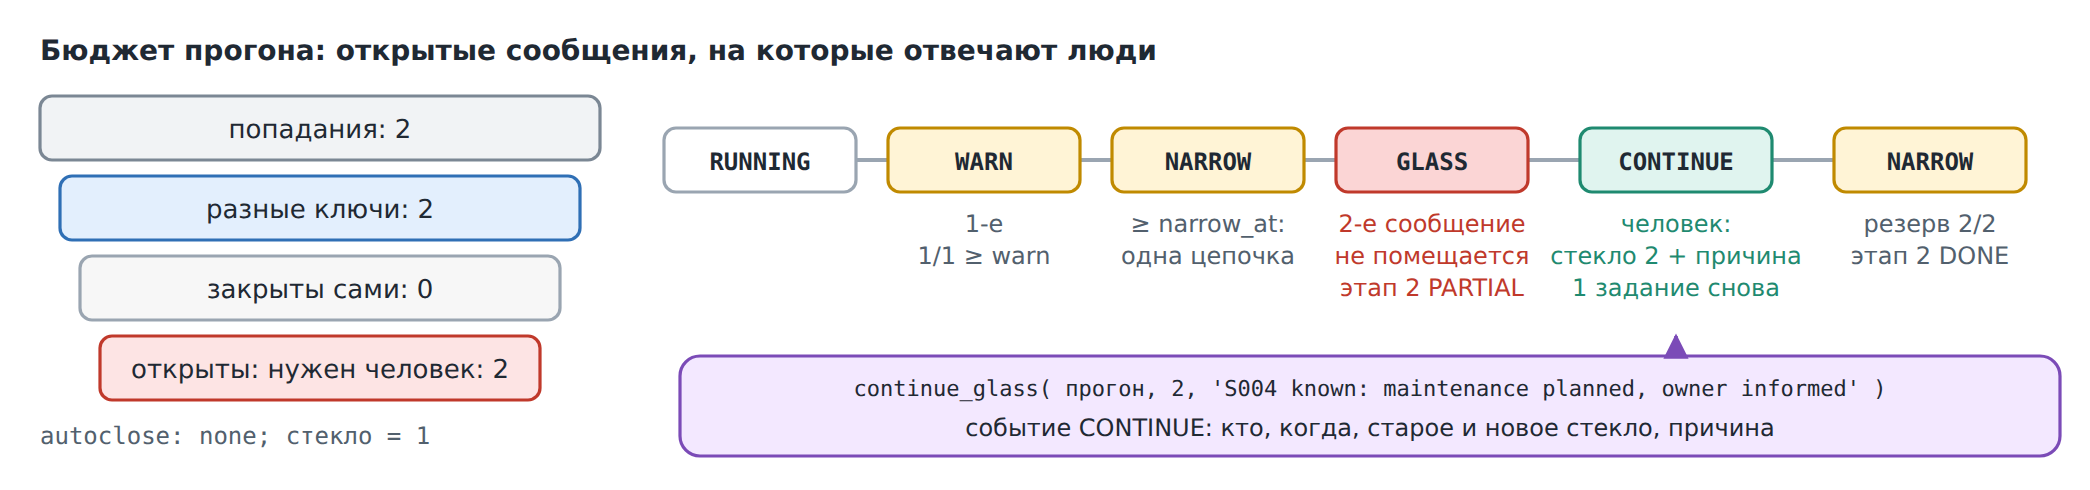
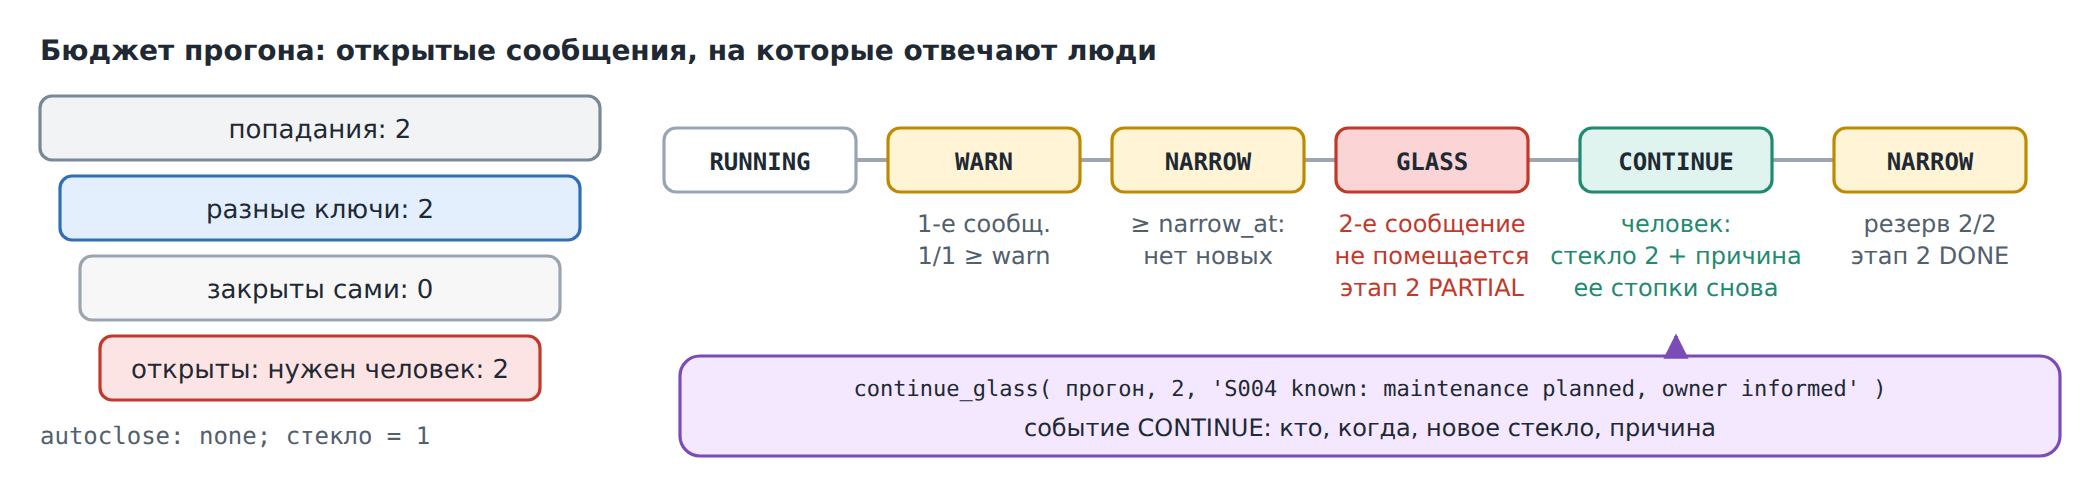
Chapter 17 after review: lock shown and checked, job order, NARROW, release_pile, the settings report
Codex, the critic and osg-research:
- the state classrun prints the date's lock; G1 checks HELD, G2 RELEASED
- a pile with no alert that runs after the glass stops at it too: G2
  expects one job per stopped pile, and the chapter says so; G2 checks the
  STALE-PLAN reason it quotes
- NARROW stops new submissions only; reservation is per pile, one place per
  new ship and rule; ZL3_WATCH_CONF is a report; release_pile( ) then
  resume( ); the doctor is called by someone without a schedule; no claim
  about a console in progress
- diagram: CONTINUE carries the new glass; its piles again; RU labels

Claude-Session: https://claude.ai/code/session_018Djywwje7kdEq6CEr4LG73

diff --git a/book/ru/17-governor.md b/book/ru/17-governor.md
@@ -31,13 +31,15 @@ settings:
   tunable: [budget.glass]
 ```
 
-- `resilience` — то, что нужно регулятору внизу: упавшая стопка отправляется
-  снова, а задание-доктор подбирает то, что оставило умершее задание (глава 16
-  об этом упоминала).
+- `resilience` — основа, на которой стоит регулятор: упавшую стопку можно
+  отправить снова, а `doctor( )` подбирает то, что оставило упавшее задание. С
+  расписанием доктор идет заданием; у набора watch расписания нет, поэтому
+  здесь его вызвал бы человек.
 - `glass` («стекло») — бюджет, число открытых сообщений, которое может быть у
   прогона. Имя от «разбить стекло»: дальше должен действовать человек.
 - `warn` и `narrow_at` — доли стекла. На `warn` прогон один раз отмечает это,
-  на `narrow_at` сужается до одной цепочки заданий за раз.
+  на `narrow_at` сужается: новое задание не отправляется, пока идет другая
+  стопка прогона. Уже отправленные задания выполняются.
 - `per_pile: 0` выключает отдельный предел на стопку.
 - `funnel` решает, что считать. Сообщение считается один раз на правило,
   прогон и корабль (`group_by: object`): два попадания одного правила по
@@ -51,11 +53,11 @@ settings:
 
 Собирается так же, как ночной набор (глава 16), через
 `tools/dsl-l3.mjs build`. Компилятор пишет исполнитель `ZCL_OSD_FLEET_WATCH`,
-его отчет для заданий `ZOSD_FLEET_WATCH`, порты `ZCL_L3_WATCH_*` и классы
-настроек `ZCL_L3_WATCH_CONF` и `ZL3_WATCH_CONF`. Бюджет лежит в общей таблице
+его отчет для заданий `ZOSD_FLEET_WATCH`, порты `ZCL_L3_WATCH_*` и класс
+настроек `ZCL_L3_WATCH_CONF` с его отчетом `ZL3_WATCH_CONF`. Бюджет лежит в общей таблице
 open-steamgate `ZOSD_L3_BUDGET`, история прогона — в `ZOSD_L3_EVENT`.
 
-![Бюджет прогона: два попадания, два разных ключа, ни одного закрытого самим, два открытых; состояния бюджета от RUNNING до GLASS и CONTINUE человека](../img/l3-glass.ru.png)
+![Бюджет прогона: два попадания, два разных ключа, ни одного закрытого самим, два открытых; события и состояния бюджета до GLASS, CONTINUE человека и снова заполненный бюджет](../img/l3-glass.ru.png)
 
 ## Прогон останавливается у стекла
 
@@ -73,6 +75,7 @@ open-steamgate `ZOSD_L3_BUDGET`, история прогона — в `ZOSD_L3_E
 
    ```
    Watch set, run B2179C23A3CF434380CA033254965E8D
+   Lock on 20261001: HELD
    Stage 1 candidates: DONE
      busy-ship pile 1: DONE
      busy-ship pile 2: DONE
@@ -92,13 +95,15 @@ open-steamgate `ZOSD_L3_BUDGET`, история прогона — в `ZOSD_L3_E
    ```
 
 Задания этапа 2 идут в любом порядке, поэтому в вашем прогоне пройти может
-сообщение другого правила.
+сообщение другого правила. А если обработчик выполнил задание второго
+сообщения раньше стопки без сообщений, эта стопка тоже останавливается у
+стекла, хотя писать ей нечего.
 
 Читайте снизу вверх, от бюджета:
 
-- Прежде чем стопка запишет сообщение, она резервирует место в бюджете одним
-  условным `UPDATE`. Первое сообщение о S004 помещается: `reserved 1` из
-  `glass 1`.
+- Прежде чем стопка запишет свои сообщения, она резервирует по месту на
+  каждый новый корабль и правило, все одним условным `UPDATE`. Первое
+  сообщение о S004 помещается: `reserved 1` из `glass 1`.
 - Пороги проверяются после каждого допуска, как отношение резерва к стеклу.
   При стекле в единицу первое же сообщение проходит и 0,7, и 0,8, поэтому
   сразу приходят `WARN` (пишется один раз за прогон) и `NARROW`.
@@ -106,8 +111,9 @@ open-steamgate `ZOSD_L3_BUDGET`, история прогона — в `ZOSD_L3_E
   останавливается как `GLASS`, бюджет прогона переходит в `GLASS`, а этап
   останавливается: `GLASS-STAGE` с `amount 2` — номер этапа, который стекло
   перевело из `OPEN` в `PARTIAL`.
-- Прогон держит блокировку своей даты. Новая стопка не начинается, а
-  `resume( )` и доктор оставляют его как есть: бюджет сам не пополняется.
+- Прогон держит блокировку своей даты (`Lock on 20261001: HELD`). Новая
+  стопка не начинается, а `resume( )` и доктор оставляют прогон как есть:
+  бюджет сам не пополняется.
 
 ## Человек продолжает прогон
 
@@ -126,12 +132,13 @@ lv_ok = zcl_osd_fleet_watch=>continue_glass( iv_run = lv_run
 
 1. Нажмите на нем **F9**. Ожидается:
    `Continue run <ID> with glass 2: X`.
-2. Снова выполните обработчик. Он выполнит одно задание: стопку, которая
-   остановилась у стекла.
+2. Снова выполните обработчик. Он выполнит по заданию на каждую стопку,
+   которая остановилась у стекла; здесь одно.
 3. Снова нажмите **F9** на `ZCL_OSD_FLEET_WATCH_STATE`. Ожидается, кроме
    строк выше:
 
    ```
+   Lock on 20261001: RELEASED
    Stage 2 checks: DONE
      low-steam-voyage pile 2: DONE (STALE-PLAN)
    Budget: NARROW, glass 2, reserved 2, consumed 2, refunded 0
@@ -157,7 +164,7 @@ lv_ok = zcl_osd_fleet_watch=>continue_glass( iv_run = lv_run
 | Предел | Что считает | Когда превышен |
 |---|---|---|
 | `budget.glass` | открытые сообщения прогона, каждый корабль один раз на правило | `GLASS`: прогон ждет человека |
-| `budget.per_pile` | кандидатов в открытые сообщения в одной стопке | стопка `HELD`; `release_pile( )` с причиной отпускает ее |
+| `budget.per_pile` | кандидатов в открытые сообщения в одной стопке | стопка `HELD` и ничего не пишет; `release_pile( )` с причиной возвращает ее в `PLANNED`, затем `resume( )` ее выполняет |
 | `resilience.fuses.max_alerts` | каждую строку сообщений правила в прогоне | правило `FUSED` и перестает писать |
 
 Набор watch пользуется только стеклом. Два других предела описаны в
@@ -171,9 +178,8 @@ open-steamgate (разделы «Governor: the manual-handling budget» и «Fus
   бюджете. Своего у флота здесь нет; `close: none`.
 - Прогон в одном шаге (режим S) под регулятором и гонку двух стопок за
   последнее место в бюджете. Оба выполняют собственные тесты open-steamgate.
-- Человека за экраном. Здесь его заменяет classrun. Сгенерированный пульт
-  прогонов, с бюджетом, событиями и кнопкой «продолжить», в open-steamgate
-  готовится и в 0.6.1531 не входит.
+- Человека за экраном. Здесь его заменяет classrun; экрана для этого в
+  0.6.1531 нет.
 
 `node test/l3.mjs` (приложение A) выполняет шаги этой главы на настоящем
 движке: прогон, который останавливается у стекла (G1), и продолжение, которое

diff --git a/book/17-governor.md b/book/17-governor.md
@@ -30,12 +30,14 @@ settings:
   tunable: [budget.glass]
 ```
 
-- `resilience` is what a governor needs underneath: a failed pile goes again,
-  and a doctor job takes over what a dead job left (chapter 16 named it).
+- `resilience` is what a governor stands on: a failed pile can go again, and
+  `doctor( )` takes over what a dead job left. With a schedule the doctor runs
+  as a job; the watch set has no schedule, so here someone would call it.
 - `glass` is the budget: the number of open alerts a run may have. The name
   comes from "break the glass": past it, a person has to act.
 - `warn` and `narrow_at` are fractions of the glass. At `warn` the run notes
-  it once; at `narrow_at` it narrows to one chain of jobs at a time.
+  it once; at `narrow_at` it narrows: no new job is submitted while another
+  pile of the run is under way. Jobs already submitted still run.
 - `per_pile: 0` switches off a separate cap per pile.
 - `funnel` decides what counts. An alert counts once per rule, run and ship
   (`group_by: object`): two hits on one ship by one rule are one alert. The
@@ -47,11 +49,11 @@ settings:
 
 Build it like the night set (chapter 16) with `tools/dsl-l3.mjs build`. The
 compiler writes the runner `ZCL_OSD_FLEET_WATCH`, its job report
-`ZOSD_FLEET_WATCH`, the ports `ZCL_L3_WATCH_*`, and the settings classes
-`ZCL_L3_WATCH_CONF` and `ZL3_WATCH_CONF`. The budget lives in open-steamgate's
+`ZOSD_FLEET_WATCH`, the ports `ZCL_L3_WATCH_*`, and the settings class
+`ZCL_L3_WATCH_CONF` with its report `ZL3_WATCH_CONF`. The budget lives in open-steamgate's
 generic table `ZOSD_L3_BUDGET`, the history of the run in `ZOSD_L3_EVENT`.
 
-![The run's budget: two hits, two distinct keys, none closed on their own, two open; the budget states from RUNNING to GLASS, and a person's CONTINUE](img/l3-glass.png)
+![The run's budget: two hits, two distinct keys, none closed on their own, two open; the run's events and budget states up to GLASS, a person's CONTINUE, and the budget filling again](img/l3-glass.png)
 
 ## The run stops at its glass
 
@@ -69,6 +71,7 @@ Start OSD with a file database, as in chapter 16.
 
    ```
    Watch set, run B2179C23A3CF434380CA033254965E8D
+   Lock on 20261001: HELD
    Stage 1 candidates: DONE
      busy-ship pile 1: DONE
      busy-ship pile 2: DONE
@@ -88,13 +91,14 @@ Start OSD with a file database, as in chapter 16.
    ```
 
 The jobs of stage 2 run in any order, so on your run the other rule may be the
-one that got through.
+one that got through. And if the worker ran the second alert's job before a
+pile with no alert, that pile stops at the glass too, with nothing to write.
 
 Read it from the budget up:
 
-- Before a pile writes an alert, it reserves a place in the budget with one
-  conditional `UPDATE`. The first S004 alert fits: `reserved 1` of
-  `glass 1`.
+- Before a pile writes its alerts, it reserves one place per new ship and
+  rule, all in one conditional `UPDATE`. The first S004 alert fits:
+  `reserved 1` of `glass 1`.
 - The thresholds are checked after each admission, as reserved against
   glass. With a glass of one, the first alert already passes 0.7 and 0.8, so
   `WARN` (written once per run) and `NARROW` come at once.
@@ -102,8 +106,9 @@ Read it from the budget up:
   `GLASS`, the run's budget turns `GLASS`, and the stage is stopped:
   `GLASS-STAGE` with `amount 2`, the number of the stage it turned from `OPEN`
   to `PARTIAL`.
-- The run keeps its lock on the date. No new pile starts, `resume( )` and the
-  doctor leave it as it is: the budget does not refill on its own.
+- The run keeps its lock on the date (`Lock on 20261001: HELD`). No new pile
+  starts; `resume( )` and the doctor leave the run as it is: the budget does
+  not refill on its own.
 
 ## A person continues it
 
@@ -122,11 +127,13 @@ new glass must be higher than the old one, and the reason may not be empty.
 
 1. Press **F9** on it. Expected:
    `Continue run <ID> with glass 2: X`.
-2. Run the worker again. It runs one job: the pile that stopped at the glass.
+2. Run the worker again. It runs one job for each pile that stopped at the
+   glass; here one.
 3. Press **F9** on `ZCL_OSD_FLEET_WATCH_STATE` again. Expected, besides the
    lines above:
 
    ```
+   Lock on 20261001: RELEASED
    Stage 2 checks: DONE
      low-steam-voyage pile 2: DONE (STALE-PLAN)
    Budget: NARROW, glass 2, reserved 2, consumed 2, refunded 0
@@ -151,7 +158,7 @@ A governed set has three limits, and they answer different questions:
 | Limit | Counts | When it is passed |
 |---|---|---|
 | `budget.glass` | open alerts in the run, each ship once per rule | `GLASS`: the run waits for a person |
-| `budget.per_pile` | candidate open alerts in one pile | the pile is `HELD`; `release_pile( )` with a reason lets it go |
+| `budget.per_pile` | candidate open alerts in one pile | the pile is `HELD` and writes nothing; `release_pile( )` with a reason sets it back to `PLANNED`, then `resume( )` runs it |
 | `resilience.fuses.max_alerts` | every alert row of a rule in the run | the rule is `FUSED` and stops writing |
 
 The watch set uses only the glass. The other two are described in
@@ -165,9 +172,8 @@ open-steamgate's
   has none of its own here; `close: none`.
 - A run in one step (mode S) under a governor, and the race of two piles for
   the last place in the budget. open-steamgate's own tests run both.
-- A person on a screen. Here a classrun stands in for the person. A generated
-  console for runs, with the budget, the events and a button for "continue",
-  is in progress in open-steamgate and is not in 0.6.1531.
+- A person on a screen. Here a classrun stands in for the person; 0.6.1531
+  has no screen for it.
 
 `node test/l3.mjs` (appendix A) runs this chapter's steps against a real
 engine: the run that stops at its glass (G1) and the continuation that
